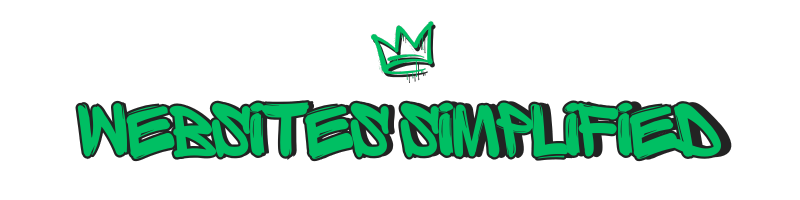
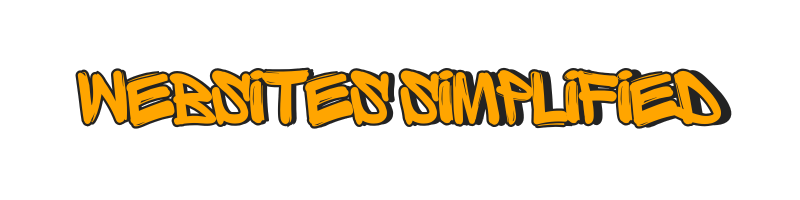
hhh

diff --git a/Terms-of-Service.html b/Terms-of-Service.html
@@ -3,7 +3,7 @@
 <head>
     <meta charset="UTF-8">
     <meta name="viewport" content="width=device-width, initial-scale=1.0">  
-    <title>Terms of Service - HC Web Studios</title>
+    <title>Terms of Service</title>
     <!-- Google Font: Inter for a clean, modern look -->
     <link href="https://fonts.googleapis.com/css2?family=Inter:wght@300;400;500;600;700;800;900&display=swap" rel="stylesheet">
         <link href="https://fonts.googleapis.com/css2?family=Manrope:wght@200..800&display=swap" rel="stylesheet">
@@ -13,7 +13,7 @@
 
     <style>
         .back-button {
-    background: #00bf63;
+    background: #ffa500;
     border-radius: 0.5rem;
     transition: background 0.2s;
     padding: 0.25rem 0.5rem;
@@ -75,31 +75,31 @@
             <div class="policy-content">
                 <!-- Centered Logo above Policy Title -->
                 <div class="policy-logo-wrapper">
-                    <img src="Images/Terms.png" alt="Terms of Service" class="policy-logo">
+                    <img src="Images/tos.png" alt="Terms of Service" class="policy-logo">
                 </div>
 
                 <p><strong>Effective Date: July 20, 2025</strong></p>
 
-                <p>These Terms of Service ("Terms") govern your access to and use of the website development, e-commerce development, website repair, and related services (collectively, the "Services") provided by Harrison Cross Website Studios ("we," "us," or "our"). By accessing or using our Services, you agree to be bound by these Terms. If you do not agree to these Terms, you may not access or use our Services.</p>
+                <p>These Terms of Service ("Terms") govern your access to and use of the website development, e-commerce development, website repair, and related services (collectively, the "Services") provided by Website Forge ("we," "us," or "our"). By accessing or using our Services, you agree to be bound by these Terms. If you do not agree to these Terms, you may not access or use our Services.</p>
 
                 <h3>1. Services Offered</h3>
-                <p>Harrison Cross Website Studios provides the following Services:</p>
+                <p>Website Forge provides the following Services:</p>
                 <ul>
                     <li><strong>Static Website Development:</strong> Design and development of informational websites without dynamic content or database functionality.</li>
                     <li><strong>E-commerce Website Development:</strong> Design and development of online stores with product listings, shopping carts, payment gateways, and order management systems.</li>
                     <li><strong>Website Repair &amp; Maintenance:</strong> Diagnosis and resolution of issues on existing websites, including bug fixes, security updates, performance optimization, and general maintenance.</li>
-                    <li><strong>Other Related Services:</strong> Any other services agreed upon in writing between Harrison Cross Website Studios and the client.</li>
+                    <li><strong>Other Related Services:</strong> Any other services agreed upon in writing between Website Forge and the client.</li>
                 </ul>
                 <p>The specific details, scope, deliverables, and timelines for each project will be outlined in a separate proposal, quotation, or service agreement ("Project Agreement"), which, once accepted by you, will form an integral part of these Terms.</p>
 
                 <h3>2. Client Responsibilities</h3>
-                <p>As a client engaging Harrison Cross Website Studios for Services, you agree to:</p>
+                <p>As a client engaging Website Forge for Services, you agree to:</p>
                 <ul>
                     <li><strong>Provide Timely Information &amp; Content:</strong> Furnish all necessary content (text, images, videos, logos, product data, etc.), access credentials (e.g., hosting, domain, existing website logins), and information required for the project in a timely manner. Delays in providing content or information may result in project delays and, in some cases, additional costs.</li>
-                    <li><strong>Review &amp; Approval:</strong> Promptly review and provide feedback, revisions, and approvals at various stages of the project as reasonably requested by Harrison Cross Website Studios.</li>
-                    <li><strong>Accuracy of Information:</strong> Ensure that all information and content provided to Harrison Cross Website Studios is accurate, complete, and does not infringe upon the intellectual property or other rights of any third party.</li>
+                    <li><strong>Review &amp; Approval:</strong> Promptly review and provide feedback, revisions, and approvals at various stages of the project as reasonably requested by Website Forge.</li>
+                    <li><strong>Accuracy of Information:</strong> Ensure that all information and content provided to Website Forge is accurate, complete, and does not infringe upon the intellectual property or other rights of any third party.</li>
                     <li><strong>Legal Compliance:</strong> Ensure that your website content and business practices comply with all applicable laws and regulations, including but not limited to consumer protection laws, privacy laws Australian Privacy Principles, and industry-specific regulations.</li>
-                    <li><strong>Backup Data:</strong> For website repair and maintenance services, it is your sole responsibility to back up all data, files, and databases of your website before Harrison Cross Website Studios commences any work. Harrison Cross Website Studios will not be liable for any data loss during the repair or maintenance process.</li>
+                    <li><strong>Backup Data:</strong> For website repair and maintenance services, it is your sole responsibility to back up all data, files, and databases of your website before Website Forge commences any work. Website Forge will not be liable for any data loss during the repair or maintenance process.</li>
                 </ul>
 
                 <h3>3. Payment Terms</h3>
@@ -109,49 +109,49 @@
                     <li><strong>Payment Schedule:</strong> Payments will be structured according to the milestones outlined in the Project Agreement. Remaining balance due upon project completion and before website launch.</li>
                     <li><strong>Invoicing:</strong> Invoices will be issued at each milestone or upon completion.</li>
                     <li><strong>Payment Due Date:</strong> All invoices are due for payment within 5 days of the invoice date.</li>
-                    <li><strong>Late Payments:</strong> Harrison Cross Website Studios reserves the right to charge a late payment fee of 3% per month on overdue balances. Harrison Cross Website Studios may also pause or suspend work on any project, or withhold delivery of completed work, until overdue payments are settled.</li>
-                    <li><strong>Cancellation:</strong> If a project is cancelled by the client after work has commenced, the client will be invoiced for all work completed up to the point of cancellation, at Harrison Cross Website Studios's standard hourly rate, or a pro-rata amount of the agreed project fee, whichever is greater, in addition to the non-refundable deposit.</li>
+                    <li><strong>Late Payments:</strong> Website Forge reserves the right to charge a late payment fee of 3% per month on overdue balances. Website Forge may also pause or suspend work on any project, or withhold delivery of completed work, until overdue payments are settled.</li>
+                    <li><strong>Cancellation:</strong> If a project is cancelled by the client after work has commenced, the client will be invoiced for all work completed up to the point of cancellation, at Website Forge's standard hourly rate, or a pro-rata amount of the agreed project fee, whichever is greater, in addition to the non-refundable deposit.</li>
                 </ul>
 
                 <h3>4. Revisions and Scope Changes</h3>
                 <ul>
                     <li><strong>Included Revisions:</strong> The Project Agreement will specify the number of rounds of revisions included in the project fee. Typically, two rounds of revisions are included per design phase.</li>
                     <li><strong>Out-of-Scope Work:</strong> Any work requested by the client that falls outside the defined scope of the Project Agreement will be considered an "out-of-scope" change.</li>
-                    <li><strong>Change Requests:</strong> All out-of-scope change requests must be submitted in writing. Harrison Cross Website Studios will provide a separate quote or estimate for the additional work, and work will only proceed once the client approves the additional costs and revised timelines.</li>
+                    <li><strong>Change Requests:</strong> All out-of-scope change requests must be submitted in writing. Website Forge will provide a separate quote or estimate for the additional work, and work will only proceed once the client approves the additional costs and revised timelines.</li>
                 </ul>
 
                 <h3>5. Intellectual Property</h3>
                 <ul>
-                    <li><strong>Client Content:</strong> You represent and warrant that you own or have the necessary licenses, rights, consents, and permissions to use all content (text, images, audio, video, etc.) you provide to Harrison Cross Website Studios for use in your website. You grant Harrison Cross Website Studios a non-exclusive, royalty-free license to use, reproduce, modify, and publish such content solely for the purpose of providing the Services.</li>
-                    <li><strong>Harrison Cross Website Studios Deliverables:</strong> Upon full and final payment for the Services, Harrison Cross Website Studios will transfer to you the intellectual property rights for the unique design and code elements specifically created for your project.</li>
+                    <li><strong>Client Content:</strong> You represent and warrant that you own or have the necessary licenses, rights, consents, and permissions to use all content (text, images, audio, video, etc.) you provide to Website Forge for use in your website. You grant Website Forge a non-exclusive, royalty-free license to use, reproduce, modify, and publish such content solely for the purpose of providing the Services.</li>
+                    <li><strong>Website Forge Deliverables:</strong> Upon full and final payment for the Services, Website Forge will transfer to you the intellectual property rights for the unique design and code elements specifically created for your project.</li>
                     <li><strong>Third-Party Components:</strong> This transfer of intellectual property does not include any third-party software, plugins, themes, stock photography, or open-source components used in the development of your website, which remain subject to their respective licenses. You acknowledge that you may be required to purchase separate licenses for such components.</li>
-                    <li><strong>Harrison Cross Website Studios Portfolio:</strong> Unless otherwise agreed in writing, Harrison Cross Website Studios retains the right to display the completed project in its portfolio and marketing materials.</li>
+                    <li><strong>Website Forge Portfolio:</strong> Unless otherwise agreed in writing, Website Forge retains the right to display the completed project in its portfolio and marketing materials.</li>
                 </ul>
 
                 <h3>6. Warranty and Support</h3>
                 <ul>
-                    <li><strong>Website Development Warranty:</strong> For newly developed websites, Harrison Cross Website Studios provides a 30-day warranty period commencing from the launch date, during which we will rectify any bugs or errors identified that directly result from Harrison Cross Website Studios's development work. This warranty does not cover issues arising from client modifications, third-party software updates, hosting issues, or external attacks.</li>
-                    <li><strong>Website Repair Warranty:</strong> For website repair services, Harrison Cross Website Studios warrants that the specific issue addressed will remain resolved for a period of 7 days from the date of repair completion, provided no further client modifications or external factors interfere.</li>
+                    <li><strong>Website Development Warranty:</strong> For newly developed websites, Website Forge provides a 30-day warranty period commencing from the launch date, during which we will rectify any bugs or errors identified that directly result from Website Forge's development work. This warranty does not cover issues arising from client modifications, third-party software updates, hosting issues, or external attacks.</li>
+                    <li><strong>Website Repair Warranty:</strong> For website repair services, Website Forge warrants that the specific issue addressed will remain resolved for a period of 7 days from the date of repair completion, provided no further client modifications or external factors interfere.</li>
                     <li><strong>Ongoing Support:</strong> Ongoing technical support, maintenance, and updates beyond the specified warranty period will be provided under a separate support agreement or on an hourly basis, as agreed upon by both parties.</li>
                 </ul>
 
                 <h3>7. Limitation of Liability</h3>
-                <p>To the maximum extent permitted by law, Harrison Cross Website Studios shall not be liable for any direct, indirect, incidental, special, consequential, or punitive damages, including but not limited to, loss of profits, data, use, goodwill, or other intangible losses, resulting from (i) your access to or use of or inability to access or use the Services; (ii) any conduct or content of any third party on the Services; (iii) any content obtained from the Services; and (iv) unauthorized access, use or alteration of your transmissions or content, whether based on warranty, contract, tort (including negligence) or any other legal theory, whether or not we have been informed of the possibility of such damage, and even if a remedy set forth herein is found to have failed of its essential purpose.</p>
-                <p>In no event shall Harrison Cross Website Studios's total liability to you for all damages, losses, and causes of action exceed the amount paid by you to Harrison Cross Website Studios for the specific Services giving rise to the liability.</p>
-                <p>Harrison Cross Website Studios is not responsible for any issues arising from:</p>
+                <p>To the maximum extent permitted by law, Website Forge shall not be liable for any direct, indirect, incidental, special, consequential, or punitive damages, including but not limited to, loss of profits, data, use, goodwill, or other intangible losses, resulting from (i) your access to or use of or inability to access or use the Services; (ii) any conduct or content of any third party on the Services; (iii) any content obtained from the Services; and (iv) unauthorized access, use or alteration of your transmissions or content, whether based on warranty, contract, tort (including negligence) or any other legal theory, whether or not we have been informed of the possibility of such damage, and even if a remedy set forth herein is found to have failed of its essential purpose.</p>
+                <p>In no event shall Website Forge's total liability to you for all damages, losses, and causes of action exceed the amount paid by you to Website Forge for the specific Services giving rise to the liability.</p>
+                <p>Website Forge is not responsible for any issues arising from:</p>
                 <ul>
                     <li>Client's hosting environment or domain registrar.</li>
-                    <li>Changes made to the website by the client or other third parties after Harrison Cross Website Studios's work is completed.</li>
+                    <li>Changes made to the website by the client or other third parties after Website Forge's work is completed.</li>
                     <li>Third-party software, plugins, or services.</li>
                     <li>Security breaches due to weak client passwords or lack of proper security practices on the client's part.</li>
                     <li>Browser compatibility issues for very old or unsupported browser versions.</li>
                 </ul>
 
                 <h3>8. Indemnification</h3>
-                <p>You agree to defend, indemnify, and hold harmless Harrison Cross Website Studios and its employees, agents, and contractors from and against any and all claims, damages, obligations, losses, liabilities, costs or debt, and expenses (including but not limited to attorney's fees), arising from: (i) your use of and access to the Services; (ii) your violation of any term of these Terms; (iii) your violation of any third-party right, including without limitation any copyright, property, or privacy right; or (iv) any claim that your content caused damage to a third party. This defence and indemnification obligation will survive these Terms.</p>
+                <p>You agree to defend, indemnify, and hold harmless Website Forge and its employees, agents, and contractors from and against any and all claims, damages, obligations, losses, liabilities, costs or debt, and expenses (including but not limited to attorney's fees), arising from: (i) your use of and access to the Services; (ii) your violation of any term of these Terms; (iii) your violation of any third-party right, including without limitation any copyright, property, or privacy right; or (iv) any claim that your content caused damage to a third party. This defence and indemnification obligation will survive these Terms.</p>
 
                 <h3>9. Confidentiality</h3>
-                <p>Both Harrison Cross Website Studios and the client agree to keep confidential all non-public information received from the other party during the course of providing or receiving the Services, except for information that is publicly available, independently developed, or required to be disclosed by law.</p>
+                <p>Both Website Forge and the client agree to keep confidential all non-public information received from the other party during the course of providing or receiving the Services, except for information that is publicly available, independently developed, or required to be disclosed by law.</p>
 
                 <h3>10. Governing Law and Dispute Resolution</h3>
                 <ul>
@@ -162,7 +162,7 @@
 
                 <h3>11. Termination</h3>
                 <ul>
-                    <li>Harrison Cross Website Studios may terminate or suspend your access to our Services immediately, without prior notice or liability, for any reason whatsoever, including without limitation if you breach the Terms.</li>
+                    <li>Website Forge may terminate or suspend your access to our Services immediately, without prior notice or liability, for any reason whatsoever, including without limitation if you breach the Terms.</li>
                     <li>Upon termination for any reason, your right to use the Services will immediately cease.</li>
                     <li>All provisions of the Terms which by their nature should survive termination shall survive termination, including, without limitation, ownership provisions, warranty disclaimers, indemnity, and limitations of liability.</li>
                 </ul>
@@ -172,10 +172,10 @@
 
                 <h3>13. Miscellaneous</h3>
                 <ul>
-                    <li><strong>Entire Agreement:</strong> These Terms, together with any applicable Project Agreement, constitute the entire agreement between you and Harrison Cross Website Studios regarding our Services.</li>
+                    <li><strong>Entire Agreement:</strong> These Terms, together with any applicable Project Agreement, constitute the entire agreement between you and Website Forge regarding our Services.</li>
                     <li><strong>Severability:</strong> If any provision of these Terms is held to be invalid or unenforceable, the remaining provisions of these Terms will remain in full force and effect.</li>
-                    <li><strong>Waiver:</strong> No waiver of any term of these Terms shall be deemed a further or continuing waiver of such term or any other term, and Harrison Cross Website Studios's failure to assert any right or provision under these Terms shall not constitute a waiver of such right or provision.</li>
-                    <li><strong>Assignment:</strong> You may not assign or transfer your rights or obligations under these Terms without our prior written consent. Harrison Cross Website Studios may assign its rights and obligations under these Terms without restriction.</li>
+                    <li><strong>Waiver:</strong> No waiver of any term of these Terms shall be deemed a further or continuing waiver of such term or any other term, and Website Forge's failure to assert any right or provision under these Terms shall not constitute a waiver of such right or provision.</li>
+                    <li><strong>Assignment:</strong> You may not assign or transfer your rights or obligations under these Terms without our prior written consent. Website Forge may assign its rights and obligations under these Terms without restriction.</li>
                 </ul>
 
                 <h3>14. Contact Us</h3>

diff --git a/index.html b/index.html
@@ -15,20 +15,20 @@
     </script>
     <meta charset="UTF-8">
     <meta name="viewport" content="width=device-width, initial-scale=1.0">
-    <title>HC Web Studios</title>
+    <title>Website Forge</title>
     <script type="application/ld+json">
         {
             "@context": "https://schema.org",
             "@type": "LocalBusiness",
-            "name": "Harrison Cross Web Studios",
+            "name": "Website Forge",
             "image": "https://www.hcwebstudios.com/Images/1200x630.png",
-            "url": "https://www.hcwebstudios.com/",
+            "url": "https://www.websiteforge.com.au/",
             "email": "HCWEBSTUDIOS@GMAIL.COM",
             "address": {
                 "@type": "PostalAddress",
                 "addressLocality": "Brisbane",
                 "addressRegion": "QLD",
-                "postalCode": "4054",
+                "postalCode": "4053",
                 "addressCountry": "AU"
             },
             "priceRange": "affordable",
@@ -66,19 +66,19 @@
 
     <meta property="og:type" content="website">
     <meta property="og:url" content="https://www.hcwebstudios.com/">
-    <meta property="og:title" content="Harrison Cross Web Studios - Innovative Web Design & Development">
+    <meta property="og:title" content="Website Forge - Innovative Web Design & Development">
     <meta property="og:description"
         content="HC Web Studios crafts stunning, responsive, and high-performing websites. Specializing in custom web design and digital solutions for businesses of all sizes.">
     <meta property="og:image" content="Images/1200x630.png">
-    <meta property="og:image:alt" content="Harrison Cross Web Studios - Web Design and Development Services">
+    <meta property="og:image:alt" content="Website Forge - Web Design and Development Services">
 
     <meta name="twitter:card" content="summary_large_image">
     <meta name="twitter:url" content="https://www.hcwebstudios.com/">
-    <meta name="twitter:title" content="Harrison Cross Web Studios - Innovative Web Design & Development">
+    <meta name="twitter:title" content="Website Forge - Innovative Web Design & Development">
     <meta name="twitter:description"
         content="Crafting stunning, responsive, and high-performing websites. Custom web design and digital solutions.">
     <meta name="twitter:image" content="Images/1200x630.png">
-    <meta name="twitter:image:alt" content="Harrison Cross Web Studios - Web Design and Development Services">
+    <meta name="twitter:image:alt" content="Website Forge - Web Design and Development Services">
 
     <link rel="preconnect" href="https://fonts.googleapis.com">
     <link rel="preconnect" href="https://fonts.gstatic.com" crossorigin>
@@ -382,7 +382,7 @@
     <header class="main-header">
         <div class="header-container">
             <a href="index.html" class="site-logo">
-                <img src="Images/Nav-Logo.png" alt="HCWEB STUDIOS">
+                <img src="Images/Logo-2.png" height="150px" width="auto" alt="Website Forge">
             </a>
 
             <nav class="desktop-nav">
@@ -429,7 +429,7 @@
 
         <section id="services" class="services-section container">
             <div class="center-image">
-                <img data-aos="fade-up" data-aos-delay="100" src="Images/Service.png" alt="Our Services">
+                <img data-aos="fade-up" data-aos-delay="100" src="Images/os.png" alt="Our Services">
             </div>
 
 
@@ -686,7 +686,7 @@
         </section>
 
         <div data-aos="fade-up" data-aos-delay="100" class="center-image">
-            <img src="Images/CFD.png" alt="Code First Design">
+            <img src="Images/cfd.png" alt="Code First Design">
 
 
         </div>
@@ -762,7 +762,7 @@
             <section id="about" class=" container">
                 <section id="services" class="">
                     <div class="center-image">
-                        <img src="Images/About.png" data-aos="fade-up" data-aos-delay="100" alt="About Us">
+                        <img src="Images/au.png" data-aos="fade-up" data-aos-delay="100" alt="About Us">
                     </div>
                     <div class="about-content">
                         <div class="about-image-wrapper">
@@ -807,7 +807,7 @@
 
                     <section id="contact" class="">
                         <div class="center-image">
-                            <img src="Images/contact.png" data-aos="fade-up" data-aos-delay="200" alt="About Us">
+                            <img src="Images/lwt.png" data-aos="fade-up" data-aos-delay="200" alt="About Us">
                         </div>
                         <div class="center-text">
             <p data-aos="fade-up" data-aos-delay="200" class="responsive-paragraph">Get Your Free Quote Today</p>
@@ -842,7 +842,7 @@
                                         placeholder="Tell us about your project, goals, and vision..."
                                         required></textarea>
 
-                                    <div class="g-recaptcha" data-sitekey="6LfjrI4rAAAAAJH0JIBRISdSM2o5xWtPaZ78J6uw"
+                                    <div class="g-recaptcha" data-sitekey="6LdKcZ4rAAAAALH_zFzTS22GXyj1AFVk_NQ9ZNaW"
                                         data-theme="dark"></div>
                                 </div>
                                 <input type="hidden" name="_redirect" value="https://hcwebstudios.com/Thankyou.html">
@@ -875,7 +875,7 @@
         <div class="footer-container">
             <div class="footer-top">
                 <div class="footer-logo-wrapper">
-                    <img src="Images/bottom-logo.png" alt="DEVWEB Logo" class="footer-logo">
+                    <img src="Images/logo-footer.png" alt="DEVWEB Logo" class="footer-logo">
                 </div>
                 <a href="#" id="emailLink" class="email-link-custom" data-email="HCWEBSTUDIOS@GMAIL.COM">
                     <strong>HCWEBSTUDIOS@GMAIL.COM</strong>
@@ -892,7 +892,7 @@
                     <span class="footer-separator">|</span>
                     <a href="Terms-of-Service.html" class="footer-link">Terms of Service</a>
                 </div>
-                <p class="footer-copyright">&copy; 2025 <strong>HARRISON CROSS WEBSITE STUDIOS</strong> All rights
+                <p class="footer-copyright">&copy; 2025 <strong>Website Forge</strong> All rights
                     reserved.</p>
             </div>
         </div>

diff --git a/Privacy-Policy.html b/Privacy-Policy.html
@@ -3,7 +3,7 @@
 <head>
     <meta charset="UTF-8">
     <meta name="viewport" content="width=device-width, initial-scale=1.0">  
-    <title>Privacy Policy - HC Web Studios</title>
+    <title>Privacy Policy</title>
     <!-- Google Font: Inter for a clean, modern look -->
     <link href="https://fonts.googleapis.com/css2?family=Inter:wght@300;400;500;600;700;800;900&display=swap" rel="stylesheet">
         <link href="https://fonts.googleapis.com/css2?family=Manrope:wght@200..800&display=swap" rel="stylesheet">
@@ -13,7 +13,7 @@
 
     <style>
         .back-button {
-    background: #00bf63;
+    background: #ffa500;
     border-radius: 0.5rem;
     transition: background 0.2s;
     padding: 0.25rem 0.5rem;
@@ -63,12 +63,12 @@
             <div class="policy-content">
                 <!-- Centered Logo above Policy Title -->
                 <div class="policy-logo-wrapper">
-                    <img src="Images/Privacy.png" alt="Privacy Policy" class="policy-logo">
+                    <img src="Images/pp.png" alt="Privacy Policy" class="policy-logo">
                 </div>
                 
                 <p><strong>Effective Date: July 20, 2025</strong></p>
 
-                <p>This Privacy Policy describes how Harrison Cross Website Studios ("we," "us," or "our") collects, uses, and discloses your personal information when you visit and use our website development services ("Services").</p>
+                <p>This Privacy Policy describes how Website Forge ("we," "us," or "our") collects, uses, and discloses your personal information when you visit and use our website development services ("Services").</p>
 
                 <h3>1. Information We Collect</h3>
                 <p>We collect information to provide and improve our Services to you. The types of information we may collect include:</p>

diff --git a/CSS/styles.css b/CSS/styles.css
@@ -25,7 +25,7 @@
 /* Use Permanent Marker where needed */
 .marker1 {
     font-family: 'Permanent Marker', cursive;
-    color: #00bf63;
+    color: #ffa500;
 }
 
 
@@ -61,22 +61,22 @@
 |--------------------------------------------------------------------------*/
 :root {
     --primary-dark: #191919;
-    --primary-accent: #00bf63;
+    --primary-accent: #ffa500;
     --text-light: #f3f4f6;
     --text-dark: #1a202c;
     --card-bg-dark: #2c2c2c;
-    --footer-bg-dark: #00bf63;
+    --footer-bg-dark: #ffa500;
     --gray-700: #4a5568;
     /* Equivalent to Tailwind gray-700 */
     --gray-800: #2d3748;
     /* Equivalent to Tailwind gray-800 */
     --gray-900: #1a202c;
     /* Equivalent to Tailwind gray-900 */
-    --green-500: #22c55e;
+    --green-500: #ff2500;
     /* Equivalent to Tailwind green-500 */
-    --green-700: #047857;
+    --green-700: #ffb84d;
     /* Equivalent to Tailwind green-700 */
-    --green-800: #065f46;
+    --green-800: #ff9800;
     /* Equivalent to Tailwind green-800 */
     --white: #ffffff;
 }
@@ -1405,7 +1405,7 @@ button:hover~.custom-cursor,
 | 13. Footer
 |--------------------------------------------------------------------------*/
 .site-footer {
-    background-color: #00bf63;
+    background-color: #ffa500;
     color: var(--text-light);
     padding-top: 4rem;
     /* Increased padding-top */

diff --git a/Thankyou.html b/Thankyou.html
@@ -72,13 +72,13 @@
             letter-spacing: 0.05em;
             border: 0.125rem solid transparent;
             text-decoration: none; /* Remove underline */
-            background-color: var(--primary-accent, #00bf63); /* Fallback to hex code */
+            background-color: var(--primary-accent, #ffa500); /* Fallback to hex code */
             color: var(--primary-dark, #191919); /* Fallback to hex code */
             border-color: var(--primary-dark, #191919); /* Fallback to hex code */
         }
 
         .back-home-btn:hover {
-            background-color: var(--green-500, #22c55e); /* Fallback to hex code */
+            background-color: var(--green-500, #ff2500); /* Fallback to hex code */
             transform: translateY(-0.25rem) scale(1.02);
             box-shadow: 0 0.5rem 0.75rem rgba(0, 0, 0, 0.2);
         }
@@ -147,7 +147,7 @@
     <div class="thank-you-card">
         <!-- Replaced h1 with your image code -->
         <div data-aos="flip-up" data-aos-delay="100" class="center-image">
-            <img src="Images/word.png" alt="Word Up!">
+            <img src="Images/mf.png" alt="message Forged!">
         </div>
         <p class="thank-you-message">
             Your message has been received. We will get back to you shortly.
